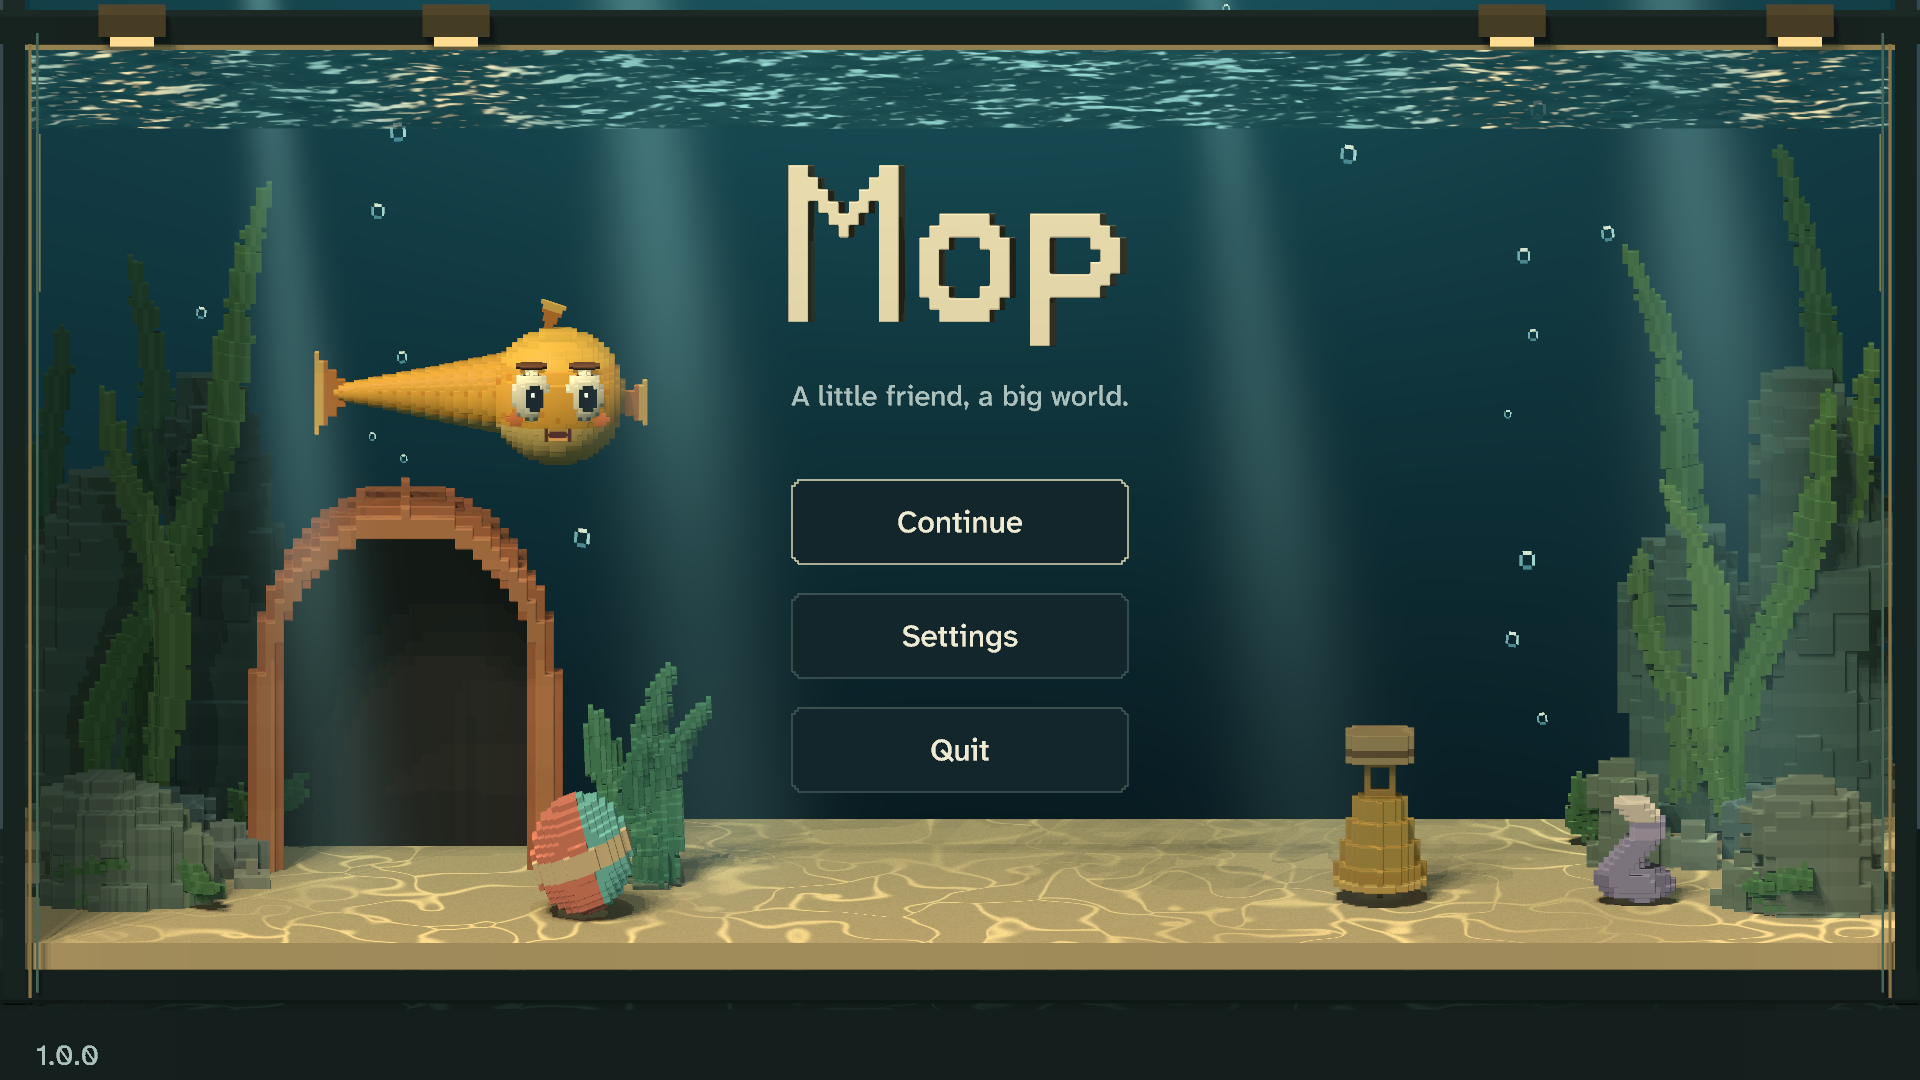
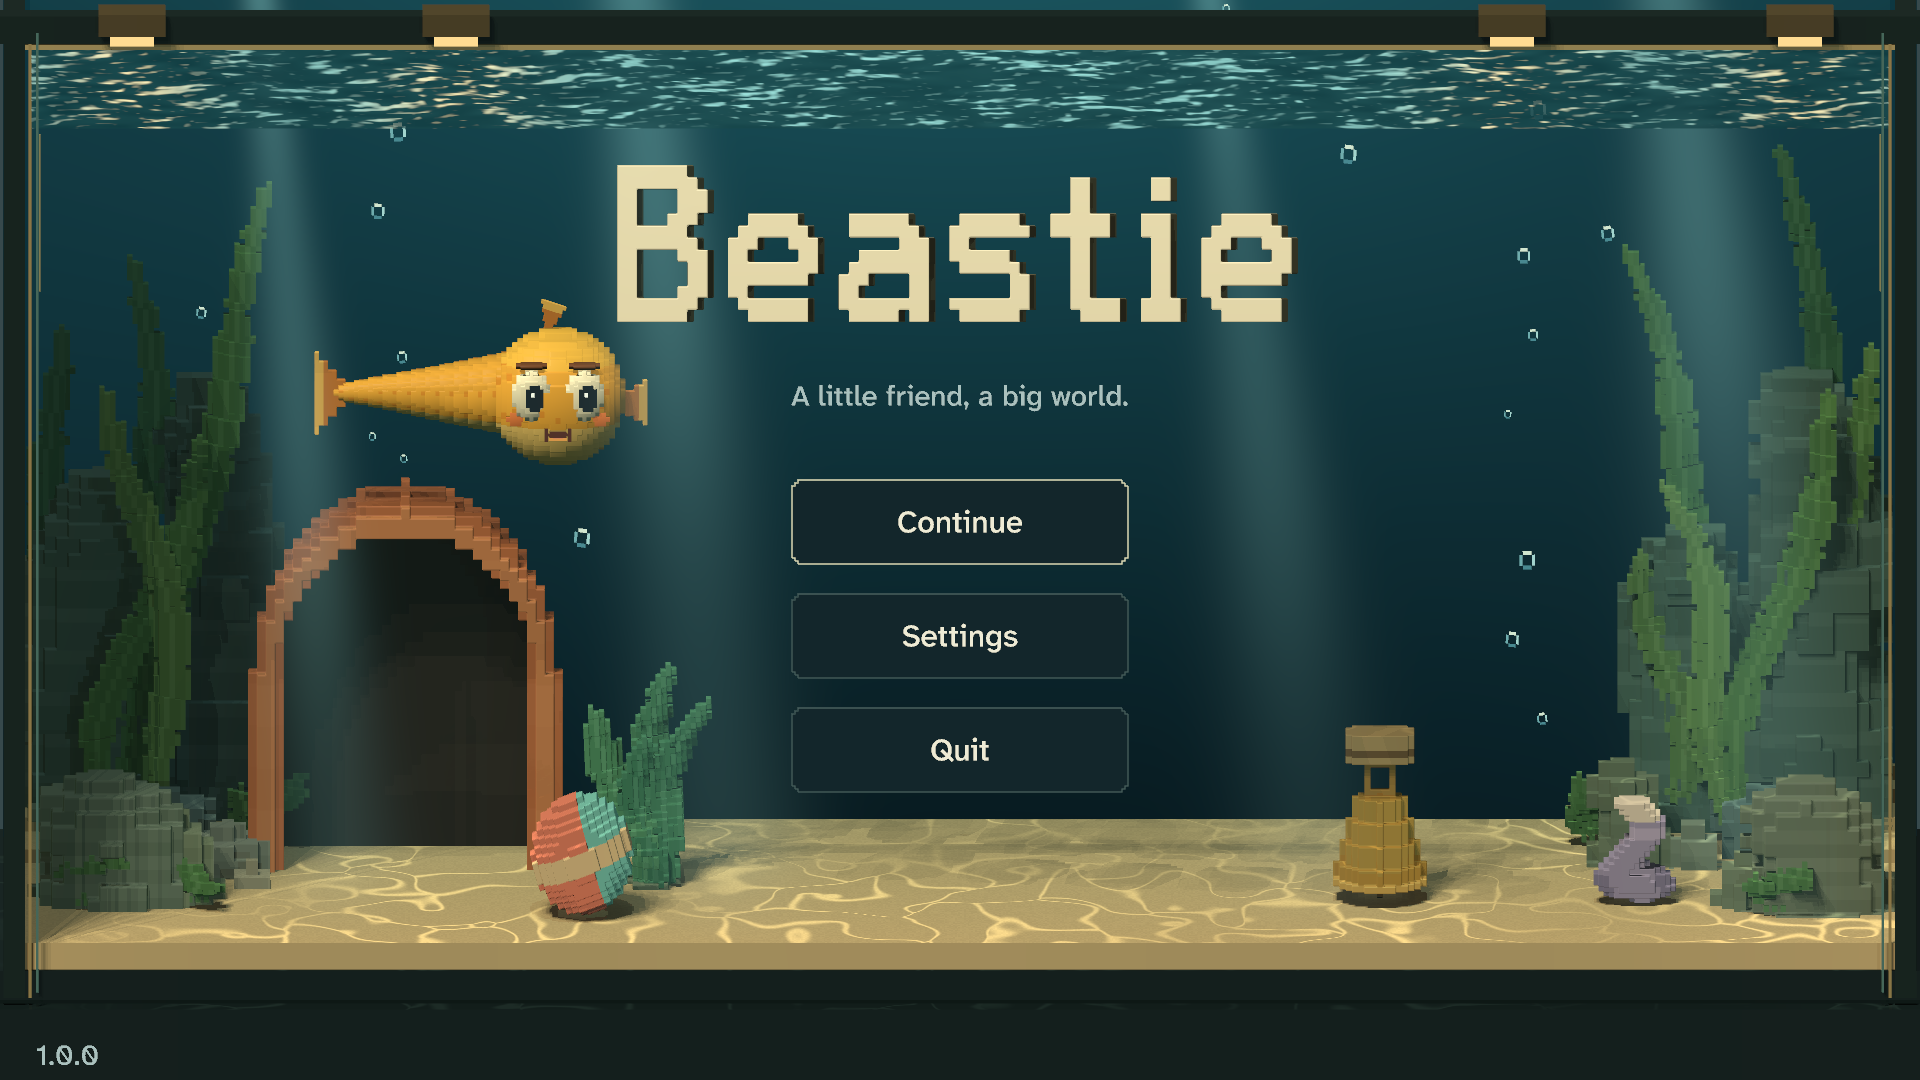
Use Beastie for game branding and Mop for the creature

Changed region(s): [[0.3125, 0.1528, 0.6875, 0.3361]]

diff --git a/crates/beastie-game/src/renderer.rs b/crates/beastie-game/src/renderer.rs
@@ -457,74 +457,81 @@ fn bubble_mesh() -> Mesh {
 }
 
 fn title_logo_mesh() -> Mesh {
-    // Authored 5x7 lettering is a filled voxel solid, with actual side walls and
-    // stepped silhouettes. Body text continues to use shaped, accessible glyphs.
-    let letters: &[(i32, &[&str])] = &[
-        (
-            0,
-            &[
-                "xx       xx",
-                "xxx     xxx",
-                "xxxx   xxxx",
-                "xx xx xx xx",
-                "xx  xxx  xx",
-                "xx   x   xx",
-                "xx       xx",
-                "xx       xx",
-                "xx       xx",
-                "xx       xx",
-                "xx       xx",
-                "xx       xx",
-                "xx       xx",
-            ],
-        ),
-        (
-            13,
-            &[
-                "         ",
-                "         ",
-                "         ",
-                "         ",
-                "  xxxxx  ",
-                " xxxxxxx ",
-                "xxx   xxx",
-                "xx     xx",
-                "xx     xx",
-                "xx     xx",
-                "xxx   xxx",
-                " xxxxxxx ",
-                "  xxxxx  ",
-            ],
-        ),
-        (
-            24,
-            &[
-                "         ",
-                "         ",
-                "         ",
-                "         ",
-                "xxxxxxx  ",
-                "xxxxxxxx ",
-                "xx    xxx",
-                "xx     xx",
-                "xx    xxx",
-                "xxxxxxxx ",
-                "xxxxxxx  ",
-                "xx       ",
-                "xx       ",
-                "xx       ",
-                "xx       ",
-            ],
-        ),
+    // "Beastie" is the game brand; Mop is only the creature's default name.
+    // Authored thirteen-row lettering retains filled voxel solids and side walls.
+    // Body text continues to use shaped, accessible glyphs.
+    let capital_b: &[&str] = &[
+        "xxxxxxx  ",
+        "xxxxxxxx ",
+        "xx    xxx",
+        "xx    xxx",
+        "xx   xxx ",
+        "xxxxxxx  ",
+        "xxxxxxxx ",
+        "xx    xxx",
+        "xx     xx",
+        "xx     xx",
+        "xx    xxx",
+        "xxxxxxxx ",
+        "xxxxxxx  ",
     ];
+    let e: &[&str] = &[
+        "         ",
+        "         ",
+        "         ",
+        "         ",
+        "  xxxxx  ",
+        " xxxxxxx ",
+        "xxx   xxx",
+        "xx     xx",
+        "xxxxxxxxx",
+        "xxxxxxxx ",
+        "xx       ",
+        " xxxxxxx ",
+        "  xxxxxx ",
+    ];
+    let a: &[&str] = &[
+        "         ",
+        "         ",
+        "         ",
+        "         ",
+        " xxxxxx  ",
+        " xxxxxxx ",
+        "      xxx",
+        "  xxxxxxx",
+        " xxxxxxxx",
+        "xxx    xx",
+        "xx     xx",
+        "xxxxxxxxx",
+        " xxxxx xx",
+    ];
+    let s: &[&str] = &[
+        "        ", "        ", "        ", "        ", " xxxxxx ", "xxxxxxxx", "xx      ",
+        "xxxxxx  ", " xxxxxx ", "      xx", "      xx", "xxxxxxxx", " xxxxxx ",
+    ];
+    let t: &[&str] = &[
+        "       ", "  xx   ", "  xx   ", "  xx   ", "xxxxxx ", "xxxxxx ", "  xx   ", "  xx   ",
+        "  xx   ", "  xx   ", "  xx   ", "  xxxxx", "   xxxx",
+    ];
+    let i: &[&str] = &[
+        "    ", " xx ", " xx ", "    ", "xxx ", "xxx ", " xx ", " xx ", " xx ", " xx ", " xx ",
+        "xxxx", "xxxx",
+    ];
+    let letters = [capital_b, e, a, s, t, i, e];
+    let width = letters
+        .iter()
+        .map(|rows| rows[0].len() as i32 + 2)
+        .sum::<i32>()
+        - 2;
     let mut model = crate::voxel::VoxelModel::default();
-    for (start, rows) in letters {
+    let mut start = 0;
+    for rows in letters {
         for (row, line) in rows.iter().enumerate() {
             for (column, mark) in line.bytes().enumerate() {
                 if mark == b'x' {
                     for z in 0..4 {
                         model.set(
-                            [start + column as i32 - 16, 7 - row as i32, z],
+                            [start + column as i32 - (width - 1) / 2, 7 - row as i32, z],
                             if z == 3 {
                                 // A restrained top-to-bottom ivory shift reads as warm
                                 // illumination, while exposed side walls retain depth.
@@ -538,6 +545,7 @@ fn title_logo_mesh() -> Mesh {
                 }
             }
         }
+        start += rows[0].len() as i32 + 2;
     }
     let mut mesh = model.mesh_with_style(0.085, crate::voxel::SurfaceStyle::Beveled);
     let normals = mesh

diff --git a/docs/art-bible.md b/docs/art-bible.md
@@ -2,6 +2,10 @@
 
 ## Gold visual baseline
 
+Beastie is the game and title-logo name. Mop is the default creature name, used in creature
+labels and dialogue. The gold title image's Mop lettering guides the visual treatment,
+but the implemented logo must read Beastie.
+
 The three permanent [gold screenshots](style-reference/README.md) are the visual baseline for
 future UI and rendering work. Their composition, cool teal water, warm sand and ivory highlights,
 restrained controls and illuminated voxel forms supersede earlier visual-review screenshots.
@@ -90,7 +94,7 @@ switches use stepped blocks; cyclic values use inset plates. The main plate reve
 view of actual world geometry; letters and controls stay opaque. Secondary data, binding and
 confirmation panels retain their real navigation and recovery behavior. Reset defaults to Cancel.
 
-The title has an extruded voxel Mop logo and only Continue, Settings and Quit. Its taller camera
+The title has an extruded voxel Beastie logo and only Continue, Settings and Quit. Its taller camera
 framing and portrait placement are presentation-only; Continue restores normal world presentation
 and exact picking. UI positions compensate for title projection so visible targets remain accurate.
 The aquarium simulation continues in normal title operation. Scripted evidence starts in Compose

diff --git a/docs/style-reference/implementation.md b/docs/style-reference/implementation.md
@@ -27,7 +27,7 @@ and a nearby card retaining Play and Inspect.
 
 Settings uses a right-side plate, vertical Display/Sound/Controls categories, block
 switches and compact inset values. All existing options remain available. Title adds
-an extruded voxel Mop logo and real Continue, Settings and Quit actions. Its taller
+an extruded voxel Beastie logo and real Continue, Settings and Quit actions. Its taller
 framing and portrait placement affect presentation only; Continue restores gameplay
 projection and object picking. Settings closes back to its originating title screen.
 The subtitle is centered beneath the logo using measured glyph advances at Normal
@@ -48,6 +48,8 @@ from overwhelming the dark panel. Ordinary text and controls remain opaque.
 
 ## Deliberate differences and remaining gaps
 
+- The original title reference reads “Mop”; the game logo reads “Beastie”. Mop remains
+  the default creature name. The original reference is preserved unchanged.
 - The existing articulated creature and authoritative toy/cave positions are preserved.
   There are no decorative fake fish, New Chat action, invented settings or empty slots.
 - Body text keeps the existing shaped, ray-traced Atkinson outlines for Unicode and

diff --git a/docs/style-reference/README.md b/docs/style-reference/README.md
@@ -8,6 +8,11 @@ the visual baseline, alongside the game's [product philosophy](../game-design-ph
 - [Settings overlay](settings.jpg): Photo 2.
 - [Title screen](title-screen.jpg): Photo 1, the primary title composition.
 
+The original title image reads “Mop”. The implemented game logo must read “Beastie”;
+Mop is the default creature name and belongs in creature labels and dialogue. This
+deliberate branding correction preserves the reference's lettering treatment and
+composition. The original images remain unchanged.
+
 The aquarium fills the screen: deep teal water, warm ivory highlights, golden
 sand, natural green plants, sparse bubbles and asymmetric voxel scenery around
 open swimming space. Warm frame lighting contrasts with cool water. Surface

diff --git a/README.md b/README.md
@@ -5,6 +5,9 @@ while a tiny local language model gives the creature an unreliable voice. The cr
 notices food and the player, develops habits and grudges, and expresses authoritative state through
 movement, face, sound, and scarce dialogue.
 
+Beastie is the game's name. Mop is the default creature name; renaming the creature does not
+change the game title.
+
 The game uses a pure simulation core, a validated JSONL AI boundary, declarative 3D scene
 plans, and a Bevy shell rendering a fixed-camera voxel aquarium. macOS, Windows,
 and Linux are first-class release targets.

diff --git a/docs/STATE.md b/docs/STATE.md
@@ -4,6 +4,8 @@ Last updated: **2026-09-09**.
 
 ## Now
 
+- Beastie is the game and title brand; Mop is the default creature name. Original gold
+  images retain their supplied wording.
 - Gold-reference refinement is implemented and repeatedly reviewed. Permanent originals,
   before/after screenshots and capture commands remain in [style references](style-reference/README.md).
   The [refinement record](style-reference/refinement.md) explains accepted findings and limits.
